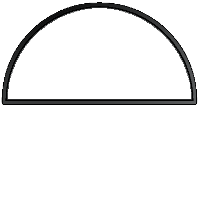
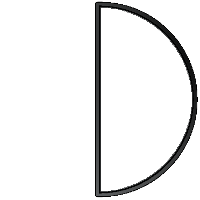
starting pantilt interface sensors...

Changed region(s): [[0.0, 0.0, 0.99, 0.99]]

diff --git a/style/main.css b/style/main.css
@@ -88,8 +88,8 @@ body {
 }
 
 .termometro {
-    width: 85px;
-    height: 199px;
+    width: 86px;
+    height: 200px;
     background-image: url("../images/termometro_fondo.png");
     background-repeat: no-repeat;
 }
@@ -117,6 +117,59 @@ body {
     background-repeat: no-repeat;
 }
 
+.pan_space {
+    width: 200px;
+    height: 200px;
+    margin-left: 25px;
+    float: left;
+}
+
+.pan_marco {
+    width: 200px;
+    height: 200px;
+    float: left;
+    background-image: url("../images/pan.png");
+    background-repeat: no-repeat;
+   /* z-index: 100;*/
+    position: absolute;
+}
+
+.pan {
+    background-image: url("../images/pan_fondo.png");
+    background-repeat: no-repeat;
+    width: 200px;
+    height: 107px;
+    border-radius: 100px 100px 0 0;
+    /*z-index: 1;*/
+    /*position: absolute;*/
+}
+
+.tilt_space {
+    width: 200px;
+    height: 200px;
+    margin-left: 315px;
+}
+
+.tilt_marco {
+    width: 200px;
+    height: 200px;
+    background-image: url("../images/tilt.png");
+    background-repeat: no-repeat;
+    /*z-index: 100;*/
+    position: absolute;
+}
+
+.tilt {
+    background-image: url("../images/tilt_fondo.png");
+    background-repeat: no-repeat;
+    width: 107px;
+    height: 200px;
+    border-radius: 0 100px 100px 0;
+    margin-left: 93px;
+    /*z-index: 1;*/
+    /*position: absolute;*/
+}
+
 .left_column {
     width: 450px;
     float: left;
@@ -125,7 +178,7 @@ body {
 
 .right_column {
     width: 640px;
-    margin: 0px 0px 0px 450px;
+    margin: 0px 0px 0px 400px;
 }
 
 .right_left {

diff --git a/index.html b/index.html
@@ -48,6 +48,16 @@
                 <div class="luminosidad_marco"></div><div class="luminosidad" id="luminosity"></div>
             </div>
         </div>
+        <div class="right_left">
+            <div class="pan_space">
+                <div class="pan_marco"></div><div class="pan" id="pan"></div>
+            </div>
+            <div class="tilt_space">
+                <div class="tilt_marco"></div><div class="tilt" id="tilt"></div>
+            </div>
+        </div>
+        <div class="right_right"><div></div>
+        </div>
         <div id="orugas_terminal"></div>
     </div>
   </body>
